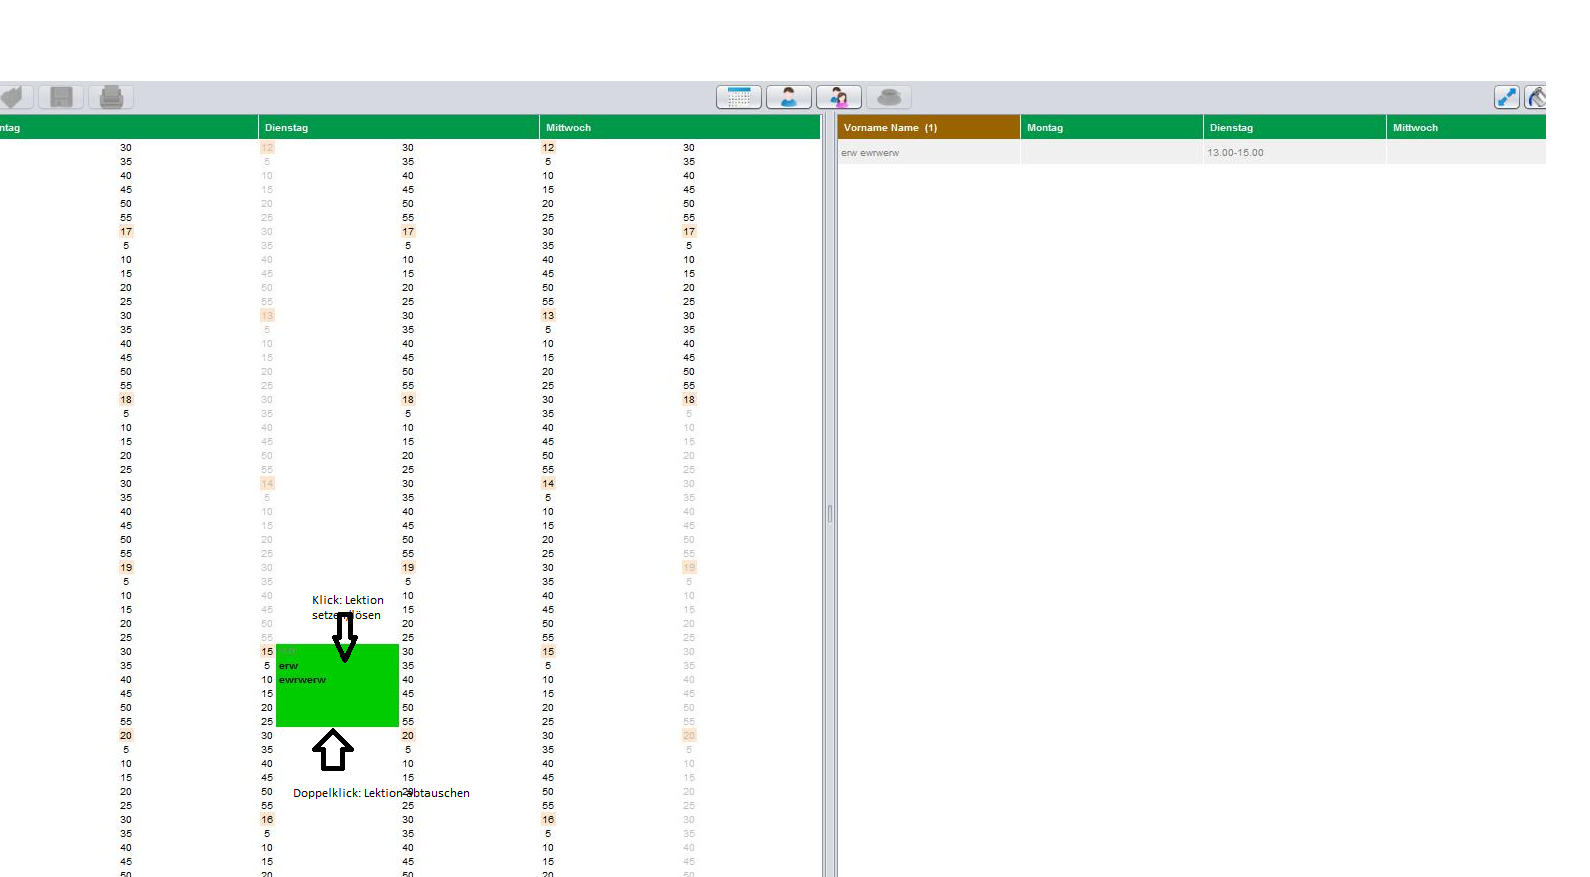
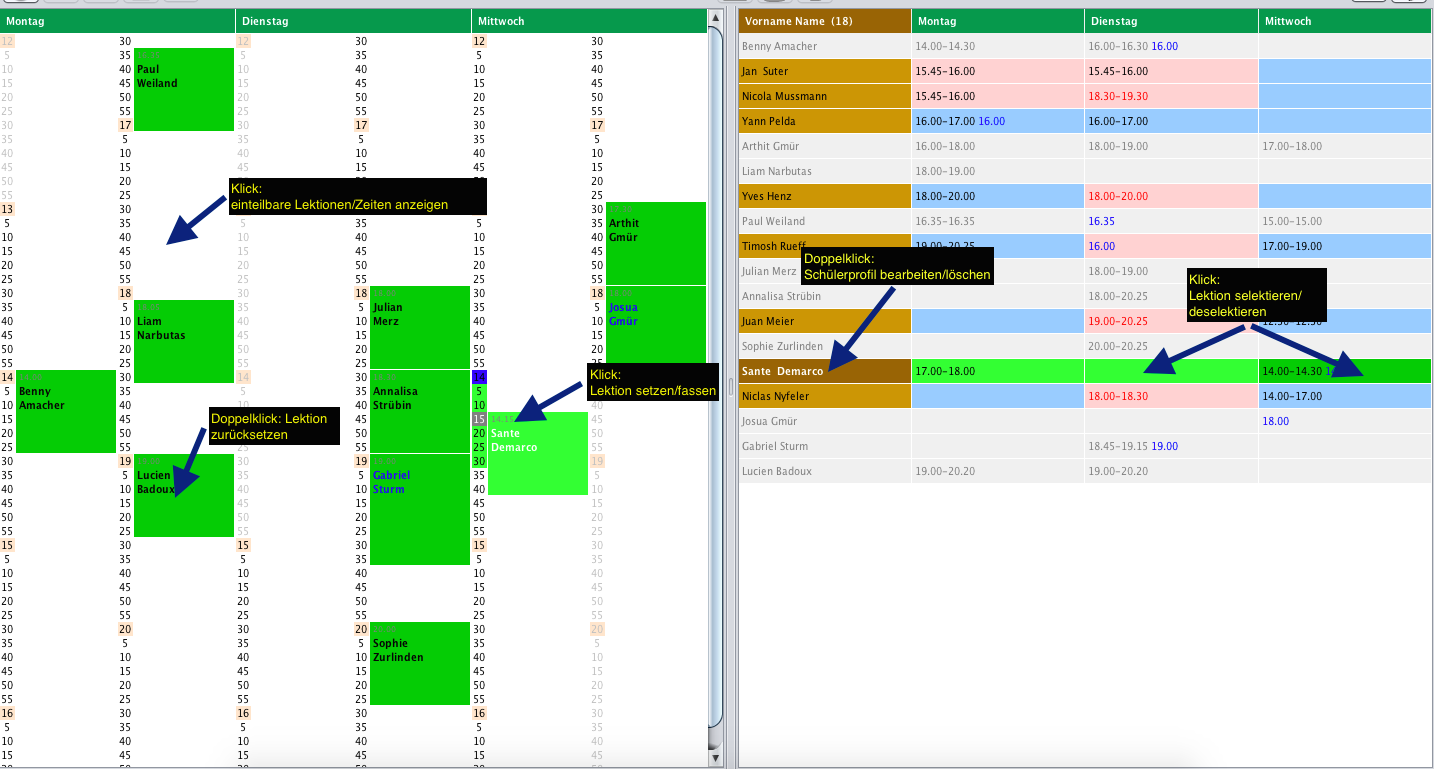
all finished

diff --git a/src/mainframe/MainFrame.java b/src/mainframe/MainFrame.java
@@ -31,19 +31,17 @@ import dataEntryUI.ScheduleInputMask;
 import dataEntryUI.StudentEntry;
 import io.DataTransferManager;
 import io.PrinterDialog;
-import java.awt.Image;
-import java.awt.Toolkit;
 import java.io.File;
 import javax.swing.JButton;
 import javax.swing.JDialog;
 import javax.swing.JFileChooser;
+import javax.swing.JLabel;
 import javax.swing.filechooser.FileFilter;
 import scheduleUI.Schedule;
 import studentlistUI.StudentList;
 import userUtilsUI.ColoredStudentDays;
 import utils.Icons;
 import static userUtilsUI.ColoredStudentDays.DEFAULT_COLORS;
-import utils.Dialogs;
 
 /**
  *
@@ -109,7 +107,7 @@ public class MainFrame extends JFrame implements DatabaseListener {
         zoomButton.setEnabled(false);
         coloredStudentTimesButton = new ScheduleButton("color.png", "Schülerliste: Verteilung der Zeiten anzeigen");
         coloredStudentTimesButton.setEnabled(false);
-        infoButton = new ScheduleButton("info.png", "Alle Funktionen auf einen Blick");
+        infoButton = new ScheduleButton("info.png", "Die wichtigsten Klicks auf einen Blick");
         splitPane = new JSplitPane(JSplitPane.HORIZONTAL_SPLIT);
         splitPane.setContinuousLayout(true);
         splitPane.setResizeWeight(0.75);
@@ -177,6 +175,11 @@ public class MainFrame extends JFrame implements DatabaseListener {
         infoButton.addActionListener(new ActionListener() {
             @Override
             public void actionPerformed(ActionEvent e) {
+                JDialog infoFrame = new JDialog(MainFrame.this);
+                JScrollPane pane = new JScrollPane(new JLabel(Icons.setIcon("screenshot.png")));
+                infoFrame.setMinimumSize(new Dimension(1400, 700));
+                infoFrame.add(pane);
+                infoFrame.setVisible(true);
             }
         });
         saveButton.addActionListener(new ActionListener() {
